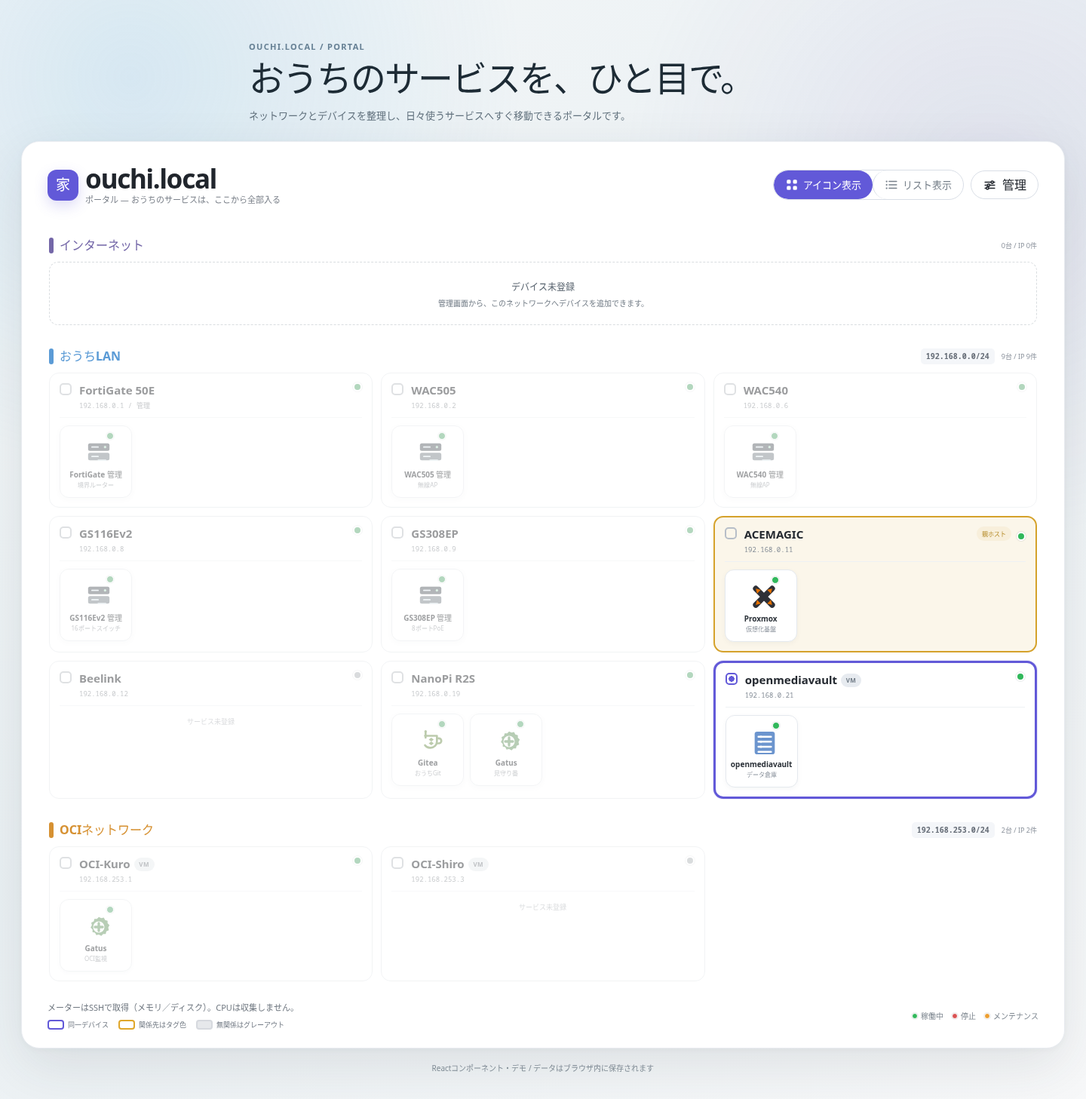
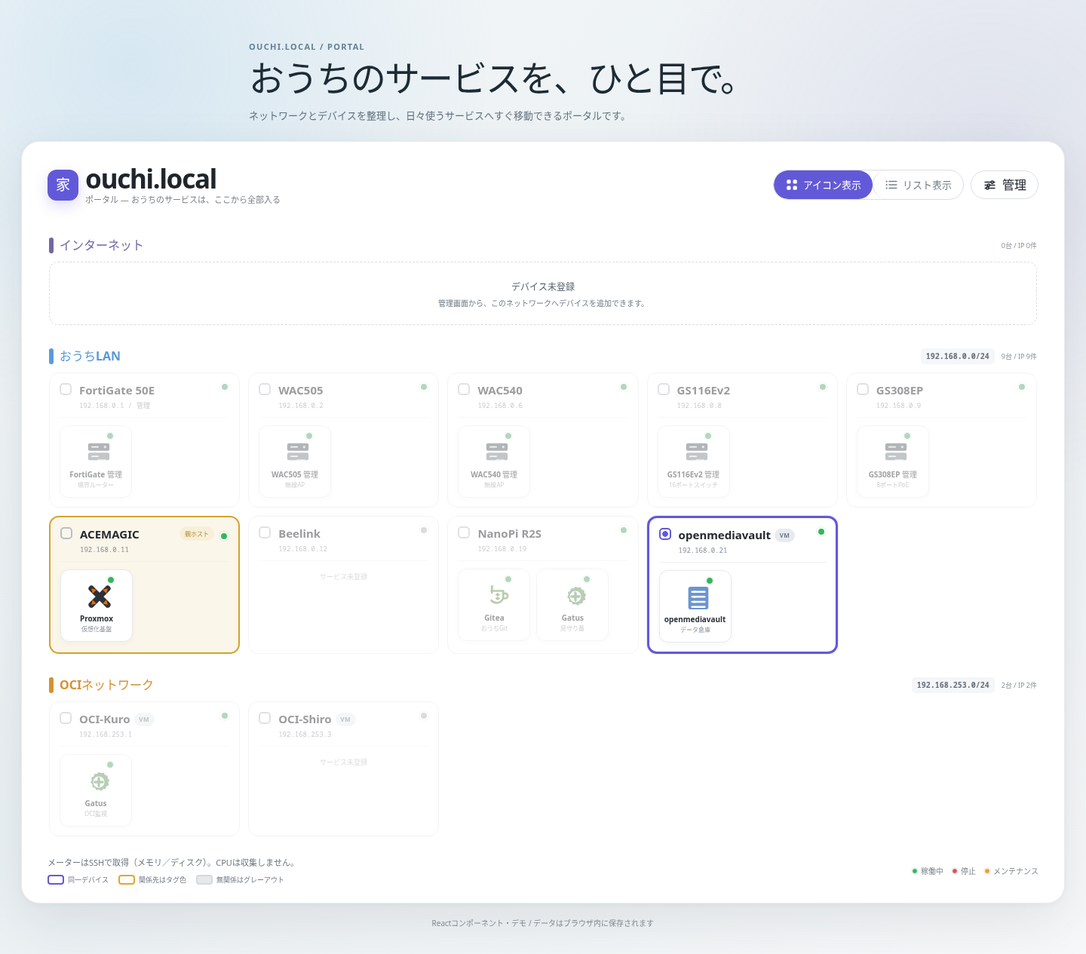
デバイスグリッドの表示密度を改善

diff --git a/成果物/demo/assets/index-16_mAM39.css b/成果物/demo/assets/index-16_mAM39.css
@@ -1,0 +1,1 @@
+.ouchi-portal{--ouchi-ink: #20252c;--ouchi-muted: #727983;--ouchi-subtle: #99a1aa;--ouchi-line: #dfe5ea;--ouchi-canvas: #f6f8fa;--ouchi-white: #ffffff;--ouchi-blue: #5b9bd6;--ouchi-green: #4ba755;--ouchi-orange: #d69132;--ouchi-violet: #7467a8;--ouchi-slate: #667483;--ouchi-danger: #d54d4d;--ouchi-up: #31b85b;--ouchi-down: #d95353;--ouchi-maintenance: #ec9e31;--ouchi-radius-xl: 24px;--ouchi-radius-lg: 18px;--ouchi-radius-md: 13px;position:relative;box-sizing:border-box;width:100%;max-width:1040px;margin:0 auto;padding:27px 27px 22px;overflow:hidden;color:var(--ouchi-ink);background:var(--ouchi-white);border:1px solid #e2e7ec;border-radius:var(--ouchi-radius-xl);box-shadow:0 24px 60px #1f303e1f,0 2px 7px #1f303e0a;font-family:Avenir Next,Hiragino Kaku Gothic ProN,Yu Gothic,Meiryo,sans-serif;line-height:1.45}.ouchi-portal *,.ouchi-portal *:before,.ouchi-portal *:after,.ouchi-overlay *,.ouchi-overlay *:before,.ouchi-overlay *:after,.ouchi-dialog-backdrop *,.ouchi-dialog-backdrop *:before,.ouchi-dialog-backdrop *:after{box-sizing:border-box}.ouchi-portal button,.ouchi-portal input,.ouchi-portal select,.ouchi-overlay button,.ouchi-overlay input,.ouchi-overlay select,.ouchi-dialog-backdrop button,.ouchi-dialog-backdrop input,.ouchi-dialog-backdrop select{font:inherit}.ouchi-portal button,.ouchi-overlay button,.ouchi-dialog-backdrop button{color:inherit}.ouchi-portal :focus-visible,.ouchi-overlay :focus-visible,.ouchi-dialog-backdrop :focus-visible{outline:3px solid rgba(80,148,215,.34);outline-offset:2px}.ouchi-portal-header{display:flex;align-items:center;justify-content:space-between;gap:24px;margin-bottom:18px}.ouchi-title-block{min-width:0}.ouchi-eyebrow{margin:0 0 3px;color:#8a939d;font-size:10px;font-weight:800;letter-spacing:.15em}.ouchi-title-block h2{margin:0;font-size:clamp(25px,3vw,31px);font-weight:800;letter-spacing:-.035em;line-height:1.1}.ouchi-summary{margin:5px 0 0;color:var(--ouchi-muted);font-size:12px}.ouchi-header-actions{display:flex;flex-wrap:wrap;align-items:center;justify-content:flex-end;gap:9px}.ouchi-segmented{display:flex;gap:0;padding:0;overflow:hidden;border:1px solid #d6dde4;border-radius:11px;background:#f8fafb}.ouchi-segmented button{display:inline-flex;min-height:42px;align-items:center;gap:6px;padding:0 15px;color:#77808a;background:transparent;border:0;cursor:pointer;font-size:13px;font-weight:700;transition:color .16s ease,background .16s ease}.ouchi-segmented button+button{border-left:1px solid #d6dde4}.ouchi-segmented button.is-active{color:#2e3a45;background:#cfd7e1}.ouchi-manage-button,.ouchi-primary-button,.ouchi-secondary-button,.ouchi-danger-button{display:inline-flex;min-height:42px;align-items:center;justify-content:center;gap:7px;padding:0 15px;border-radius:11px;cursor:pointer;font-size:13px;font-weight:750;transition:transform .14s ease,box-shadow .14s ease,background .14s ease}.ouchi-manage-button{color:#3e4b57;background:#f8fafb;border:1px solid #d9e0e6}.ouchi-manage-button:hover{background:#eef3f6}.ouchi-primary-button{color:#fff;background:#2f5067;border:1px solid #2f5067;box-shadow:0 5px 14px #2f506733}.ouchi-primary-button:hover:not(:disabled){background:#253f51;transform:translateY(-1px)}.ouchi-primary-button:disabled{opacity:.42;cursor:not-allowed;box-shadow:none}.ouchi-primary-button--compact{min-height:36px;padding:0 12px;border-radius:9px;font-size:12px}.ouchi-secondary-button{color:#4d5964;background:#fff;border:1px solid #d7dee5}.ouchi-danger-button{color:#fff;background:var(--ouchi-danger);border:1px solid var(--ouchi-danger)}.ouchi-canvas{min-height:430px;padding:18px;background-color:var(--ouchi-canvas);background-image:radial-gradient(#d2d9df 1.05px,transparent 1.05px);background-size:22px 22px;border:1px solid #dfe5ea;border-radius:var(--ouchi-radius-lg)}.ouchi-network-stack,.ouchi-list-stack{display:flex;flex-direction:column;gap:16px}.ouchi-accent-scope--blue{--network-color: var(--ouchi-blue);--network-bg: rgba(91, 155, 214, .075);--network-line: rgba(91, 155, 214, .53)}.ouchi-accent-scope--green{--network-color: var(--ouchi-green);--network-bg: rgba(75, 167, 85, .07);--network-line: rgba(75, 167, 85, .47)}.ouchi-accent-scope--orange{--network-color: var(--ouchi-orange);--network-bg: rgba(214, 145, 50, .075);--network-line: rgba(214, 145, 50, .48)}.ouchi-accent-scope--violet{--network-color: var(--ouchi-violet);--network-bg: rgba(116, 103, 168, .075);--network-line: rgba(116, 103, 168, .48)}.ouchi-accent-scope--slate{--network-color: var(--ouchi-slate);--network-bg: rgba(102, 116, 131, .075);--network-line: rgba(102, 116, 131, .48)}.ouchi-network-card{position:relative;padding:20px 17px 17px;background:var(--network-bg);border:1.5px dashed var(--network-line);border-radius:19px}.ouchi-network-header{display:flex;align-items:center;justify-content:space-between;gap:12px;margin-bottom:16px}.ouchi-network-label{display:inline-flex;min-width:0;align-items:center;gap:8px;padding:4px 11px 4px 4px;color:#fff;background:var(--network-color);border-radius:999px;box-shadow:0 2px 7px color-mix(in srgb,var(--network-color) 25%,transparent);font-size:13px;font-weight:800}.ouchi-network-label>span:last-child{overflow:hidden;text-overflow:ellipsis;white-space:nowrap}.ouchi-network-glyph{display:inline-grid;width:25px;height:25px;flex:0 0 25px;place-items:center;color:#fff;background:#fff3;border-radius:999px;font-size:12px;font-weight:800}.ouchi-network-header code{max-width:48%;padding:4px 8px;overflow:hidden;color:color-mix(in srgb,var(--network-color) 74%,#1e2730);background:#ffffff9e;border:1px solid rgba(255,255,255,.8);border-radius:6px;font-size:10px;font-weight:700;text-overflow:ellipsis;white-space:nowrap}.ouchi-node-grid{display:grid;grid-template-columns:repeat(auto-fit,minmax(205px,1fr));gap:13px}.ouchi-node-card{min-width:0;padding:13px 12px 15px;background:#ffffffe8;border:1px solid rgba(213,220,226,.96);border-radius:14px;box-shadow:0 3px 9px #3646520d}.ouchi-device-card--vm{background:#f4f8faf5;border-color:#d5e0e7}.ouchi-device-title{display:flex;min-width:0;align-items:center;gap:6px}.ouchi-device-title h3{max-width:140px}.ouchi-node-header{display:flex;align-items:flex-start;justify-content:space-between;gap:8px;padding:0 2px 10px;border-bottom:1px solid #eef1f4}.ouchi-node-header h3,.ouchi-vm-header h4{max-width:165px;margin:0;overflow:hidden;font-size:13px;font-weight:800;text-overflow:ellipsis;white-space:nowrap}.ouchi-node-header p,.ouchi-vm-header p{margin:2px 0 0;color:var(--ouchi-muted);font-family:ui-monospace,SFMono-Regular,Menlo,monospace;font-size:10px}.ouchi-status-wrap{display:inline-flex;align-items:center}.ouchi-status-dot{display:inline-block;width:10px;height:10px;flex:0 0 10px;border:2px solid #fff;border-radius:999px;box-shadow:0 0 0 1px #1f2a3214}.ouchi-status--up{background:var(--ouchi-up)}.ouchi-status--down{background:var(--ouchi-down)}.ouchi-status--maintenance{background:var(--ouchi-maintenance)}.ouchi-status--unknown{background:#aab2ba}.ouchi-node-header .ouchi-status-dot{width:12px;height:12px;flex-basis:12px}.ouchi-vm-stack{display:flex;flex-direction:column;gap:8px;margin-top:12px;padding-top:11px;border-top:1px dashed #dce3e9}.ouchi-vm-card{min-width:0;padding:10px 9px 12px;background:#f2f6f9eb;border:1px solid #dce5eb;border-radius:14px;box-shadow:0 3px 9px #3646520a}.ouchi-vm-header{display:flex;align-items:center;gap:8px;padding:0 2px 8px}.ouchi-vm-header>div{min-width:0;flex:1}.ouchi-vm-badge{display:inline-grid;min-width:28px;height:22px;flex:0 0 auto;place-items:center;padding:0 5px;color:#fff;background:#667d8c;border-radius:6px;font-size:8px;font-weight:850;letter-spacing:.05em}.ouchi-service-grid--vm{padding-top:8px}.ouchi-service-grid{display:grid;grid-template-columns:repeat(auto-fit,minmax(76px,1fr));gap:12px 8px;padding-top:14px}.ouchi-service-tile{display:flex;min-width:0;align-items:center;flex-direction:column;color:inherit;text-decoration:none}.ouchi-service-icon-wrap{position:relative;display:grid;width:70px;height:70px;place-items:center;background:#fff;border:1px solid #e3e8ed;border-radius:14px;box-shadow:0 6px 13px #23313c1a,inset 0 1px #fffc;transition:transform .16s ease,box-shadow .16s ease}.ouchi-service-tile:hover .ouchi-service-icon-wrap{transform:translateY(-3px);box-shadow:0 10px 20px #23313c24}.ouchi-service-mark{display:block;padding:7px}.ouchi-service-mark svg{display:block;width:100%;height:100%}.ouchi-service-mark--gitea{padding:9px}.ouchi-service-status{position:absolute;top:-4px;right:-4px;width:14px;height:14px;border:2px solid #fff;border-radius:999px;box-shadow:0 0 0 1px #1f2a3212}.ouchi-service-tile>strong{max-width:100%;margin-top:7px;overflow:hidden;color:#252b31;font-size:12px;font-weight:800;text-overflow:ellipsis;white-space:nowrap}.ouchi-service-tile>small{max-width:100%;overflow:hidden;color:#7e8790;font-size:10px;text-overflow:ellipsis;white-space:nowrap}.ouchi-node-empty{margin:15px 0 2px;color:var(--ouchi-muted);font-size:11px;text-align:center}.ouchi-empty-network{padding:20px;color:#727c86;background:#ffffff8c;border:1px dashed rgba(117,129,141,.27);border-radius:12px;text-align:center}.ouchi-empty-network strong{color:#5a6570;font-size:12px}.ouchi-empty-network p{margin:4px 0 0;font-size:10px}.ouchi-portal-footer{display:flex;align-items:flex-end;justify-content:space-between;gap:18px;margin-top:16px;color:#707881;font-size:11px}.ouchi-portal-footer>p{max-width:660px;margin:0}.ouchi-status-legend{display:flex;flex:0 0 auto;gap:11px;color:#7e8790;font-size:10px}.ouchi-status-legend>span{display:inline-flex;align-items:center;gap:4px}.ouchi-status-legend .ouchi-status-dot{width:8px;height:8px;flex-basis:8px;border-width:1px}.ouchi-visually-hidden{position:absolute!important;width:1px!important;height:1px!important;padding:0!important;overflow:hidden!important;clip:rect(0,0,0,0)!important;white-space:nowrap!important;border:0!important}.ouchi-list-network{overflow:hidden;background:#ffffffe6;border:1px solid #dce3e8;border-left:5px solid var(--network-color);border-radius:14px}.ouchi-list-network-header{display:flex;align-items:center;justify-content:space-between;gap:16px;padding:13px 15px;background:var(--network-bg);border-bottom:1px solid #e6ebef}.ouchi-list-network-header .ouchi-network-label{color:#fff}.ouchi-list-network-header p{margin:5px 0 0;color:var(--ouchi-muted);font-family:ui-monospace,SFMono-Regular,Menlo,monospace;font-size:10px}.ouchi-list-count{color:#7d8790;font-size:10px}.ouchi-list-node-list{display:flex;flex-direction:column}.ouchi-list-node{padding:13px 15px;cursor:pointer}.ouchi-list-node-summary,.ouchi-list-vm{display:grid;grid-template-columns:minmax(180px,.35fr) minmax(0,1fr);gap:16px}.ouchi-list-vm{align-items:center;margin-top:9px;padding:9px 10px;background:#f5f8fa;border:1px solid #e3e9ed;border-radius:9px}.ouchi-list-vm-meta{display:flex;min-width:0;align-items:center;gap:7px}.ouchi-list-vm-meta strong{overflow:hidden;font-size:11px;text-overflow:ellipsis;white-space:nowrap}.ouchi-list-vm-meta code{color:#7d8790;font-size:9px}.ouchi-list-node+.ouchi-list-node{border-top:1px solid #eef1f3}.ouchi-list-node--vm{background:#f7f9fa}.ouchi-list-node--vm .ouchi-list-node-meta{flex-wrap:wrap}.ouchi-list-node-meta{display:flex;min-width:0;align-items:center;gap:7px}.ouchi-list-node-meta strong{overflow:hidden;font-size:12px;text-overflow:ellipsis;white-space:nowrap}.ouchi-list-node-meta code{color:#7d8790;font-size:9px}.ouchi-list-services{display:flex;min-width:0;flex-wrap:wrap;align-items:center;gap:7px}.ouchi-list-service{display:inline-flex;min-width:0;max-width:100%;align-items:center;gap:5px;padding:5px 8px;color:#46515c;background:#f8fafb;border:1px solid #e1e7ec;border-radius:7px;text-decoration:none;font-size:10px}.ouchi-list-service:hover{background:#edf3f6}.ouchi-list-service>span:nth-child(2){overflow:hidden;font-weight:750;text-overflow:ellipsis;white-space:nowrap}.ouchi-list-service small{color:#929ba3}.ouchi-list-service .ouchi-status-dot{width:7px;height:7px;flex-basis:7px;border-width:1px}.ouchi-list-empty,.ouchi-list-service-empty{color:#929aa2;font-size:10px}.ouchi-list-empty{margin:0;padding:13px 15px}.ouchi-global-empty{display:grid;min-height:390px;place-content:center;justify-items:center;color:#77808a;text-align:center}.ouchi-global-empty strong{color:#46525d;font-size:17px}.ouchi-global-empty p{margin:5px 0 18px;font-size:12px}.ouchi-overlay,.ouchi-dialog-backdrop{position:fixed;z-index:1000;inset:0;background:#19232b5c;-webkit-backdrop-filter:blur(2px);backdrop-filter:blur(2px);animation:ouchi-fade-in .15s ease both}.ouchi-manage-drawer{position:absolute;top:0;right:0;display:flex;width:min(520px,100%);height:100%;flex-direction:column;overflow:hidden;color:#25303a;background:#fbfcfd;box-shadow:-18px 0 50px #151f272e;animation:ouchi-slide-in .21s cubic-bezier(.22,.8,.24,1) both;font-family:Avenir Next,Hiragino Kaku Gothic ProN,Yu Gothic,Meiryo,sans-serif}.ouchi-drawer-header,.ouchi-dialog-header{display:flex;align-items:center;justify-content:space-between;gap:16px;padding:22px 22px 16px}.ouchi-drawer-header h3,.ouchi-dialog-header h3{margin:0;font-size:21px;letter-spacing:-.025em}.ouchi-icon-button{display:inline-grid;width:38px;height:38px;flex:0 0 38px;place-items:center;padding:0;color:#66727d;background:transparent;border:1px solid transparent;border-radius:10px;cursor:pointer}.ouchi-icon-button:hover{color:#2f3c47;background:#edf1f4;border-color:#e1e6ea}.ouchi-icon-button--small{width:31px;height:31px;flex-basis:31px;border-radius:8px}.ouchi-icon-button--danger:hover{color:#b43f3f;background:#fff0f0;border-color:#f4d2d2}.ouchi-drawer-notice{margin:0 22px 12px;padding:10px 12px;color:#6b5a2a;background:#fff9e8;border:1px solid #efe0ad;border-radius:9px;font-size:11px}.ouchi-drawer-notice--error{color:#8f4141;background:#fff2f2;border-color:#f0cccc}.ouchi-drawer-tabs{display:flex;padding:0 22px;border-bottom:1px solid #e4e9ed}.ouchi-drawer-tabs button{position:relative;display:inline-flex;flex:1;align-items:center;justify-content:center;gap:6px;padding:12px 4px;color:#7a838c;background:transparent;border:0;cursor:pointer;font-size:12px;font-weight:700}.ouchi-drawer-tabs button:after{position:absolute;right:14px;bottom:-1px;left:14px;height:2px;background:transparent;border-radius:2px 2px 0 0;content:""}.ouchi-drawer-tabs button.is-active{color:#2f4e64}.ouchi-drawer-tabs button.is-active:after{background:#43728f}.ouchi-drawer-tabs button span{display:inline-grid;min-width:18px;height:18px;place-items:center;padding:0 4px;background:#e8edf1;border-radius:999px;font-size:9px}.ouchi-drawer-body{min-height:0;flex:1;padding:17px 22px 24px;overflow-y:auto}.ouchi-drawer-toolbar{display:flex;align-items:center;justify-content:space-between;gap:12px;margin-bottom:12px}.ouchi-drawer-toolbar p{margin:0;color:#77818b;font-size:11px}.ouchi-inline-hint{margin:-2px 0 12px;color:#9a6b30;font-size:10px}.ouchi-manage-list{display:flex;flex-direction:column;gap:8px}.ouchi-manage-row{display:flex;min-width:0;align-items:center;gap:10px;padding:11px;background:#fff;border:1px solid #e2e8ec;border-radius:11px}.ouchi-manage-accent{width:5px;height:35px;flex:0 0 5px;border-radius:999px}.ouchi-accent--blue{background:var(--ouchi-blue)}.ouchi-accent--green{background:var(--ouchi-green)}.ouchi-accent--orange{background:var(--ouchi-orange)}.ouchi-accent--violet{background:var(--ouchi-violet)}.ouchi-accent--slate{background:var(--ouchi-slate)}.ouchi-manage-row-main{min-width:0;flex:1}.ouchi-manage-row-main strong{display:block;overflow:hidden;font-size:12px;text-overflow:ellipsis;white-space:nowrap}.ouchi-manage-row-main p{margin:2px 0 0;overflow:hidden;color:#89929b;font-size:9px;text-overflow:ellipsis;white-space:nowrap}.ouchi-manage-chip,.ouchi-status-label{flex:0 0 auto;padding:3px 6px;border-radius:999px;font-size:8px;font-weight:700}.ouchi-manage-chip{color:#69747e;background:#f0f3f5}.ouchi-status-label--up{color:#268546;background:#e8f8ed}.ouchi-status-label--down{color:#b43f3f;background:#fff0f0}.ouchi-status-label--maintenance{color:#976719;background:#fff6df}.ouchi-manage-device-mark{display:grid;width:31px;height:31px;flex:0 0 31px;place-items:center;color:#eaf1f5;background:#526c7e;border-radius:9px;font-size:11px;font-weight:800}.ouchi-manage-vm-mark{display:grid;width:31px;height:31px;flex:0 0 31px;place-items:center;color:#eff4f7;background:#6f8492;border-radius:8px;font-size:8px;font-weight:850;letter-spacing:.04em}.ouchi-manage-status{width:10px;height:10px;flex:0 0 10px;border-radius:999px}.ouchi-row-actions{display:flex;flex:0 0 auto;gap:2px}.ouchi-drawer-footer{display:flex;align-items:center;justify-content:space-between;gap:14px;padding:13px 22px;background:#f6f8fa;border-top:1px solid #e5e9ed}.ouchi-drawer-footer>span{color:#939ba3;font-size:9px}.ouchi-text-button{display:inline-flex;align-items:center;gap:5px;padding:0;color:#65717c;background:transparent;border:0;cursor:pointer;font-size:10px}.ouchi-manage-empty{display:grid;min-height:140px;place-content:center;color:#98a0a8;text-align:center}.ouchi-manage-empty strong{color:#6d7780;font-size:12px}.ouchi-manage-empty p{margin:3px 0 0;font-size:10px}.ouchi-dialog-backdrop{z-index:1100;display:grid;place-items:center;padding:18px}.ouchi-entity-dialog{width:min(480px,100%);max-height:calc(100vh - 36px);overflow-y:auto;color:#25303a;background:#fff;border-radius:18px;box-shadow:0 28px 70px #151f273d;animation:ouchi-pop-in .17s ease both;font-family:Avenir Next,Hiragino Kaku Gothic ProN,Yu Gothic,Meiryo,sans-serif}.ouchi-entity-form{display:flex;flex-direction:column;gap:14px;padding:3px 22px 22px}.ouchi-field{display:flex;flex-direction:column;gap:5px}.ouchi-field>span{color:#4b5660;font-size:11px;font-weight:750}.ouchi-field input,.ouchi-field select{width:100%;min-height:40px;padding:8px 10px;color:#28333d;background:#fff;border:1px solid #d7dfe5;border-radius:9px;font-size:12px}.ouchi-field input::placeholder{color:#b0b7bd}.ouchi-field input[aria-invalid=true],.ouchi-field select[aria-invalid=true]{border-color:#d95e5e;box-shadow:0 0 0 3px #d95e5e1a}.ouchi-field small{color:#8a949d;font-size:9px}.ouchi-field-error{color:#bc4141;font-size:9px}.ouchi-checkbox-field{display:flex;align-items:flex-start;gap:9px;padding:11px;background:#f6f9fa;border:1px solid #dfe7ec;border-radius:10px;cursor:pointer}.ouchi-checkbox-field input{width:17px;height:17px;flex:0 0 17px;margin:2px 0 0;accent-color:#526f82}.ouchi-checkbox-field span{display:flex;min-width:0;flex-direction:column;gap:2px}.ouchi-checkbox-field strong{color:#34434e;font-size:11px}.ouchi-checkbox-field small{color:#7c8790;font-size:9px}.ouchi-form-grid{display:grid;grid-template-columns:1fr 1fr;gap:12px}.ouchi-form-note{margin:-2px 0 0;padding:9px 10px;color:#68747e;background:#f5f8fa;border-radius:8px;font-size:9px}.ouchi-form-actions{display:flex;justify-content:flex-end;gap:8px;margin-top:4px}.ouchi-dialog-backdrop--confirm{z-index:1200}.ouchi-confirm-dialog{width:min(390px,100%);padding:24px;color:#25303a;background:#fff;border-radius:17px;box-shadow:0 28px 70px #151f2742;animation:ouchi-pop-in .17s ease both;font-family:Avenir Next,Hiragino Kaku Gothic ProN,Yu Gothic,Meiryo,sans-serif}.ouchi-confirm-dialog h3{margin:0;font-size:18px}.ouchi-confirm-dialog p{margin:9px 0 20px;color:#727c85;font-size:11px}@keyframes ouchi-fade-in{0%{opacity:0}}@keyframes ouchi-slide-in{0%{transform:translate(26px);opacity:.7}}@keyframes ouchi-pop-in{0%{transform:translateY(8px) scale(.985);opacity:0}}@media(max-width:760px){.ouchi-portal{padding:20px 15px 17px;border-radius:19px}.ouchi-portal-header{align-items:flex-start;flex-direction:column;gap:13px}.ouchi-header-actions{width:100%;justify-content:space-between}.ouchi-segmented button{padding:0 12px}.ouchi-canvas{min-height:410px;padding:12px}.ouchi-network-card{padding:17px 13px 14px}.ouchi-node-grid{grid-template-columns:1fr}.ouchi-service-grid{grid-template-columns:repeat(auto-fit,minmax(72px,1fr))}.ouchi-portal-footer{align-items:flex-start;flex-direction:column;gap:10px}.ouchi-list-node-summary,.ouchi-list-vm{grid-template-columns:1fr;gap:9px}.ouchi-manage-drawer{width:100%}.ouchi-drawer-header,.ouchi-dialog-header{padding:18px 17px 13px}.ouchi-drawer-tabs{padding:0 17px}.ouchi-drawer-body{padding:14px 17px 20px}.ouchi-drawer-footer{padding:12px 17px}.ouchi-manage-chip{display:none}.ouchi-entity-form{padding:2px 17px 19px}}@media(max-width:430px){.ouchi-header-actions{align-items:stretch;flex-direction:column}.ouchi-segmented,.ouchi-segmented button,.ouchi-manage-button{width:100%}.ouchi-segmented button{justify-content:center}.ouchi-network-header{align-items:flex-start}.ouchi-network-header code{max-width:43%}.ouchi-status-legend{flex-wrap:wrap}.ouchi-form-grid{grid-template-columns:1fr}.ouchi-drawer-tabs button{gap:3px;font-size:10px}.ouchi-drawer-toolbar{align-items:flex-start;flex-direction:column}}@media(prefers-reduced-motion:reduce){.ouchi-portal *,.ouchi-overlay *,.ouchi-dialog-backdrop *{scroll-behavior:auto!important;transition:none!important;animation:none!important}}.ouchi-portal{max-width:1500px;padding:30px 34px 24px;border-color:#e8ebf0;box-shadow:0 24px 70px #25303d1a,0 2px 8px #25303d09}.ouchi-title-block{display:flex;align-items:center;gap:9px}.ouchi-home-mark{display:inline-grid;width:41px;height:41px;flex:0 0 41px;place-items:center;color:#fff;background:#6259d8;border-radius:12px;font-size:19px;font-weight:800;box-shadow:0 7px 18px #6259d838}.ouchi-title-block h2{font-size:clamp(27px,2.8vw,35px)}.ouchi-summary{margin-top:1px;color:#7b818a;font-size:11px}.ouchi-segmented{border-color:#d9dee6;border-radius:999px;background:#fff}.ouchi-segmented button{min-height:38px;border-radius:999px}.ouchi-segmented button.is-active{color:#fff;background:#6259d8}.ouchi-manage-button{min-height:38px;background:#fff;border-color:#d9dee6;border-radius:999px}.ouchi-canvas{min-height:540px;padding:16px 2px 12px;background:transparent;border:0;border-radius:0}.ouchi-network-stack{gap:11px}.ouchi-network-card{padding:7px 0 12px;background:transparent;border:0;border-radius:0}.ouchi-network-header{margin-bottom:10px}.ouchi-network-label{padding:0;color:var(--network-color);background:transparent;box-shadow:none;font-size:16px}.ouchi-list-network-header .ouchi-network-label{color:var(--network-color);background:transparent;box-shadow:none}.ouchi-network-glyph{width:6px;height:21px;flex-basis:6px;color:transparent;background:var(--network-color);border-radius:999px;font-size:0}.ouchi-network-meta{display:inline-flex;align-items:center;gap:9px}.ouchi-network-meta code{max-width:none;padding:3px 7px;color:#666d77;background:#f4f6f9;border:0;border-radius:5px}.ouchi-network-meta small{color:#8b929c;font-size:9px}.ouchi-node-grid{grid-template-columns:repeat(auto-fill,minmax(226px,1fr));gap:11px}.ouchi-node-card{position:relative;min-width:226px;min-height:174px;padding:12px 13px;overflow:hidden;background:#ffffffc7;border:1.5px solid #e0e5eb;border-radius:13px;box-shadow:none;cursor:pointer;transition:border-color .16s ease,background .16s ease,opacity .16s ease,filter .16s ease,transform .16s ease}.ouchi-node-card:hover{transform:translateY(-1px);border-color:color-mix(in srgb,var(--network-color) 36%,#dfe4ea)}.ouchi-device-card--selected{background:#fff;border:3px solid #6259d8;box-shadow:0 0 0 1px #6259d81f}.ouchi-device-card--related{background:color-mix(in srgb,var(--ouchi-relation-color) 10%,#fff);border:2px solid var(--ouchi-relation-color)}.ouchi-device-card--muted{opacity:.46;filter:grayscale(.42)}.ouchi-device-card--muted:hover{opacity:.7}.ouchi-node-header{min-height:47px;align-items:flex-start;padding:0 0 9px;border-bottom-color:#eef1f4}.ouchi-node-select-button{display:grid;min-width:0;flex:1;grid-template-columns:19px minmax(0,1fr);gap:2px 7px;padding:0;color:inherit;background:transparent;border:0;cursor:pointer;text-align:left}.ouchi-node-radio{width:16px;height:16px;margin-top:1px;border:2px solid #b7bec8;border-radius:5px}.ouchi-device-card--selected .ouchi-node-radio{background:radial-gradient(circle,#6259d8 0 42%,transparent 46%);border-color:#6259d8}.ouchi-device-title{display:flex;min-width:0;align-items:center;gap:5px;color:#252a31;font-size:15px;font-weight:850}.ouchi-device-title>span:first-child{overflow:hidden;text-overflow:ellipsis;white-space:nowrap}.ouchi-node-address{grid-column:2;overflow:hidden;color:#858d97;font-family:ui-monospace,SFMono-Regular,Menlo,monospace;font-size:9px;text-overflow:ellipsis;white-space:nowrap}.ouchi-node-header-side{display:flex;flex:0 0 auto;align-items:flex-end;gap:7px}.ouchi-vm-badge{height:18px;min-width:27px;padding:0 5px;color:#707b86;background:#e7ebf0;border-radius:999px;font-size:8px}.ouchi-same-device-badge{display:inline-flex;height:18px;flex:0 0 auto;align-items:center;padding:0 6px;color:#656c76;background:#e9edf2;border-radius:999px;font-size:8px;font-weight:750}.ouchi-relation-badges{display:flex;flex-wrap:wrap;justify-content:flex-end;gap:3px}.ouchi-relation-badge{display:inline-flex;min-height:19px;align-items:center;padding:1px 7px;border-radius:999px;font-size:8px;font-weight:800;white-space:nowrap}.ouchi-relation-badge{color:color-mix(in srgb,var(--ouchi-relation-color) 80%,#3a3321);background:color-mix(in srgb,var(--ouchi-relation-color) 17%,#fff)}.ouchi-service-grid{display:grid;grid-template-columns:repeat(2,minmax(0,96px));justify-content:start;gap:8px;padding-top:10px}.ouchi-service-tile{display:grid;width:100%;min-width:0;aspect-ratio:1;grid-template-columns:minmax(0,1fr);justify-items:center;align-content:center;gap:5px;padding:8px 6px;color:inherit;background:#fff;border:1px solid #e5e9ee;border-radius:12px;box-shadow:0 2px 7px #222f3c0b;text-decoration:none}.ouchi-service-tile:hover{border-color:color-mix(in srgb,var(--network-color) 33%,#dfe4ea);box-shadow:0 5px 12px #222f3c14}.ouchi-service-icon-wrap{width:42px;height:42px;border:0;border-radius:8px;box-shadow:none}.ouchi-service-tile:hover .ouchi-service-icon-wrap{transform:none;box-shadow:none}.ouchi-service-mark{padding:5px!important}.ouchi-service-copy{display:flex;width:100%;min-width:0;align-items:center;flex-direction:column;gap:1px;text-align:center}.ouchi-service-copy strong{display:-webkit-box;overflow:hidden;color:#2d333a;font-size:10px;font-weight:800;line-height:1.25;-webkit-box-orient:vertical;-webkit-line-clamp:2}.ouchi-service-copy small{max-width:100%;overflow:hidden;color:#9299a2;font-size:8px;text-overflow:ellipsis;white-space:nowrap}.ouchi-service-status{top:-3px;right:-3px;width:10px;height:10px;border-width:1.5px}.ouchi-node-empty{margin:14px 0 10px;color:#b2b7be;font-size:9px}.ouchi-resource-meters{display:flex;flex-direction:column;gap:6px;margin-top:12px;padding-top:10px;border-top:1px solid #eef1f4}.ouchi-resource-meter{display:grid;grid-template-columns:44px minmax(0,1fr) 31px;align-items:center;gap:6px;color:#737a84;font-size:8px}.ouchi-resource-meter strong{color:#5c636c;font-size:8px;text-align:right}.ouchi-resource-track{display:block;height:8px;overflow:hidden;background:#edf0f3;border-radius:999px}.ouchi-resource-fill{display:block;height:100%;border-radius:inherit}.ouchi-resource-fill--low{background:#20bd61}.ouchi-resource-fill--medium{background:#efa51e}.ouchi-resource-fill--high{background:#df6d36}.ouchi-portal-footer{align-items:center;margin-top:3px}.ouchi-portal-legend{display:flex;flex-direction:column;gap:8px}.ouchi-portal-legend>p{margin:0}.ouchi-relation-legend{display:flex;flex-wrap:wrap;gap:13px;color:#737b85;font-size:9px}.ouchi-relation-legend>span{display:inline-flex;align-items:center;gap:5px}.ouchi-legend-swatch{width:22px;height:13px;border:2px solid;border-radius:4px}.ouchi-legend-swatch--same{border-color:#6259d8}.ouchi-legend-swatch--relation{border-color:#e0a72b}.ouchi-legend-swatch--muted{background:#e6e8eb;border-color:#d6d9de}.ouchi-list-node--selected{background:#f3f1ff;box-shadow:inset 3px 0 #6259d8}.ouchi-list-node--related{background:color-mix(in srgb,var(--ouchi-relation-color, #d5a22b) 7%,#fff);box-shadow:inset 3px 0 var(--ouchi-relation-color, #d5a22b)}.ouchi-list-node--muted{opacity:.5}.ouchi-list-select-button{display:inline-flex;min-width:0;align-items:center;gap:6px;padding:0;color:inherit;background:transparent;border:0;cursor:pointer}.ouchi-list-select-button .ouchi-status-dot{width:9px;height:9px;flex-basis:9px;background:var(--network-color)}.ouchi-list-select-button[aria-pressed=true] .ouchi-status-dot{background:#6259d8;box-shadow:0 0 0 3px #6259d824}.ouchi-list-node-meta small{color:#9299a1;font-size:9px}.ouchi-entity-dialog{width:min(720px,100%)}.ouchi-form-section{display:flex;flex-direction:column;gap:10px;padding:13px;background:#f8fafb;border:1px solid #e2e7ec;border-radius:12px}.ouchi-form-section>header{display:flex;align-items:flex-start;justify-content:space-between;gap:12px}.ouchi-form-section>header>div{display:flex;min-width:0;flex-direction:column;gap:2px}.ouchi-form-section>header strong{color:#34414c;font-size:12px}.ouchi-form-section>header small{color:#858f98;font-size:9px}.ouchi-secondary-button--compact{min-height:32px;padding:0 10px;border-radius:8px;font-size:10px}.ouchi-editor-stack{display:flex;flex-direction:column;gap:8px}.ouchi-editor-row{padding:10px;background:#fff;border:1px solid #e2e7ec;border-radius:10px}.ouchi-editor-row-foot{display:grid;grid-template-columns:minmax(0,1fr) auto;align-items:end;gap:8px;margin-top:8px}.ouchi-relation-row{display:grid;grid-template-columns:1.15fr 1fr 1fr auto;align-items:end;gap:8px;padding:10px;background:#fff;border:1px solid #e2e7ec;border-radius:10px}.ouchi-color-field{display:flex;align-items:flex-end;gap:6px;padding-bottom:1px}.ouchi-color-field label{display:flex;flex-direction:column;gap:5px;color:#4b5660;font-size:11px;font-weight:750}.ouchi-color-field input[type=color]{width:42px;height:40px;padding:3px;background:#fff;border:1px solid #d7dfe5;border-radius:9px}.ouchi-color-field code{padding-bottom:11px;color:#7d858d;font-size:8px}.ouchi-form-error-summary{padding:10px 12px;color:#913e3e;background:#fff0f0;border:1px solid #efcccc;border-radius:9px;font-size:10px}.ouchi-form-error-summary strong{display:block;margin-bottom:4px;font-size:11px}.ouchi-form-error-summary ul{margin:0;padding-left:17px}.ouchi-url-preview{display:grid;grid-template-columns:auto minmax(0,1fr);gap:5px 9px;padding:10px;color:#66717b;background:#f2f6f8;border:1px solid #dfe7ec;border-radius:9px;font-size:9px}.ouchi-url-preview code{overflow:hidden;color:#3e596b;text-overflow:ellipsis;white-space:nowrap}@media(max-width:1120px){.ouchi-node-grid{grid-template-columns:repeat(auto-fill,minmax(226px,1fr))}.ouchi-portal{padding:27px 25px 22px}}@media(max-width:760px){.ouchi-portal{padding:20px 14px 17px}.ouchi-canvas{padding:12px 0 8px}.ouchi-node-grid{grid-template-columns:repeat(auto-fill,minmax(226px,1fr))}.ouchi-network-header{align-items:flex-start}.ouchi-network-meta{align-items:flex-end;flex-direction:column;gap:4px}.ouchi-portal-footer{align-items:flex-start;flex-direction:column}.ouchi-relation-row{grid-template-columns:1fr;align-items:stretch}.ouchi-color-field{align-items:center}.ouchi-color-field code{padding-bottom:0}}@media(max-width:500px){.ouchi-service-grid{grid-template-columns:repeat(2,minmax(0,96px))}.ouchi-form-section>header{flex-direction:column}}:root{color:#1f2932;background:#eef3f6;font-family:Avenir Next,Hiragino Kaku Gothic ProN,Yu Gothic,Meiryo,sans-serif;font-synthesis:none;text-rendering:optimizeLegibility}*{box-sizing:border-box}html{min-width:320px;min-height:100%}body{min-width:320px;min-height:100vh;margin:0;background:radial-gradient(circle at 12% 7%,rgba(115,180,222,.22),transparent 28%),radial-gradient(circle at 91% 16%,rgba(160,142,200,.15),transparent 27%),linear-gradient(145deg,#f4f7f8,#eaf0f3 48%,#f7f8f9)}body:before{position:fixed;z-index:-1;inset:0;pointer-events:none;background-image:linear-gradient(rgba(82,109,126,.035) 1px,transparent 1px);background-size:100% 36px;content:""}.demo-page{width:min(1580px,100%);margin:0 auto;padding:54px 28px 34px}.demo-heading{width:min(780px,100%);margin:0 auto 25px}.demo-brand{margin:0 0 8px;color:#668094;font-size:11px;font-weight:800;letter-spacing:.12em;text-transform:uppercase}.demo-heading h1{margin:0;color:#1d2b35;font-size:clamp(28px,4.4vw,47px);letter-spacing:-.045em;line-height:1.14}.demo-heading h1 span{display:inline-block;white-space:nowrap}.demo-heading>p:last-child{max-width:640px;margin:12px 0 0;color:#63737f;font-size:13px}.demo-note{margin:18px 0 0;color:#85909a;font-size:10px;text-align:center}@media(max-width:640px){.demo-page{padding:30px 12px 24px}.demo-heading{padding:0 8px}}

diff --git a/src/portal/styles.css b/src/portal/styles.css
@@ -1622,12 +1622,13 @@
 }
 
 .ouchi-node-grid {
-  grid-template-columns: repeat(3, minmax(0, 1fr));
+  grid-template-columns: repeat(auto-fill, minmax(226px, 1fr));
   gap: 11px;
 }
 
 .ouchi-node-card {
   position: relative;
+  min-width: 226px;
   min-height: 174px;
   padding: 12px 13px;
   overflow: hidden;
@@ -1792,7 +1793,7 @@
 
 .ouchi-service-grid {
   display: grid;
-  grid-template-columns: repeat(auto-fit, minmax(86px, 96px));
+  grid-template-columns: repeat(2, minmax(0, 96px));
   justify-content: start;
   gap: 8px;
   padding-top: 10px;
@@ -2177,7 +2178,7 @@
 
 @media (max-width: 1120px) {
   .ouchi-node-grid {
-    grid-template-columns: repeat(2, minmax(0, 1fr));
+    grid-template-columns: repeat(auto-fill, minmax(226px, 1fr));
   }
 
   .ouchi-portal {
@@ -2195,7 +2196,7 @@
   }
 
   .ouchi-node-grid {
-    grid-template-columns: 1fr;
+    grid-template-columns: repeat(auto-fill, minmax(226px, 1fr));
   }
 
   .ouchi-network-header {
@@ -2229,7 +2230,7 @@
 
 @media (max-width: 500px) {
   .ouchi-service-grid {
-    grid-template-columns: repeat(auto-fit, minmax(86px, 96px));
+    grid-template-columns: repeat(2, minmax(0, 96px));
   }
 
   .ouchi-form-section > header {

diff --git a/tests/e2e/portal.spec.ts b/tests/e2e/portal.spec.ts
@@ -5,6 +5,7 @@ const viewports = [
   { name: "laptop-1024", width: 1024, height: 900 },
   { name: "tablet-768", width: 768, height: 1000 },
   { name: "mobile-390", width: 390, height: 1100 },
+  { name: "mobile-320", width: 320, height: 1200 },
 ];
 
 for (const viewport of viewports) {
@@ -17,6 +18,9 @@ for (const viewport of viewports) {
     await expect(
       page.getByRole("heading", { name: "ouchi.local" }),
     ).toBeVisible();
+    expect(
+      await page.evaluate(() => document.documentElement.scrollWidth),
+    ).toBeLessThanOrEqual(viewport.width);
     await page.screenshot({
       path: `成果物/screenshots/portal-${viewport.name}.png`,
       fullPage: true,

diff --git a/成果物/demo/index.html b/成果物/demo/index.html
@@ -8,8 +8,8 @@
       content="ouchi.localのネットワーク、ノード、サービスをまとめるポータル"
     />
     <title>ouchi.local ポータル</title>
-    <script type="module" crossorigin src="/assets/index-7GLUObAH.js"></script>
-    <link rel="stylesheet" crossorigin href="/assets/index-CQxuzKJ3.css">
+    <script type="module" crossorigin src="/assets/index-BP-R20Eh.js"></script>
+    <link rel="stylesheet" crossorigin href="/assets/index-16_mAM39.css">
   </head>
   <body>
     <div id="root"></div>

diff --git a/報告書.md b/報告書.md
@@ -28,6 +28,9 @@
 - デバイス欄外のクリックで選択を解除する。
 - ポータル外側のグレー領域クリックでも選択を解除する。
 - デバイス領域クリック、サービス分離、欄外解除の変更一式をGitへコミットする。
+- デバイスカードの最小横幅をサービス2個分に設定する。
+- 右側余白を抑え、画面幅に応じて表示できるデバイス数を増やす。
+- 可変グリッドと320px表示を含む変更一式をGitへコミットする。
 
 ## 現状の概要報告
 
@@ -59,14 +62,14 @@
 - 自由入力タグと色を持つ `relations`、同一デバイス表示、関係表示を別概念として実装済みです。
 - メモリ／ディスクメーター、SSH接続メタデータ、CPU非表示を実装済みです。
 - サービスURLとGatus監視URLをスキーム、IP、ポート、パスから生成できます。
-- 自動テスト32件、Playwright9状態、型チェック、ライブラリ／デモビルドが成功済みです。
+- 自動テスト32件、Playwright10状態、型チェック、ライブラリ／デモビルドが成功済みです。
 - npmパッケージを `0.2.0` へ更新し、デモ、パッケージ、9枚の画面確認画像を成果物へ配置済みです。
 - 開発サーバーを `http://192.168.0.32:5173/` で起動し、HTTP 200応答を確認済みです。
 - Gatusの監視APIから2026-11-20時点の登録ホストと成功状態を取得しました。
 - RAGのIPアドレス命名ルール（commit `4be1dd9`）を確認しました。
 - おうちLAN 9台、OCIネットワーク2台、管理・アプリサービス10件をテストデータへ反映済みです。
 - Gatus登録ホストの管理URL候補へ読み取りアクセスし、主なスキームとポートを確認済みです。
-- 実データ版でも自動テスト32件、型チェック、本番ビルド、Playwright 9状態が成功済みです。
+- 実データ版でも自動テスト32件、型チェック、本番ビルド、Playwright 10状態が成功済みです。
 - サービスタイルを縦配置へ変更し、アイコンの下へサービス名と補足名を表示します。
 - サービスタイルを固定幅グリッドの正方形ボタンへ変更済みです。
 - 同一デバイスを示すバッジは、同一IDのいずれかのノードを選択した場合だけ表示します。
@@ -87,6 +90,12 @@
 - `.ouchi-portal`の外側をpointerdownした場合も選択を解除するよう変更しています。
 - 最新のクリック操作修正、テスト32件、成果物、報告書をコミット対象として確認済みです。
 - デバイス操作改善一式を `main` ブランチへローカルコミット済みです。
+- デバイスカードを最小226pxとし、サービスボタンを常に最大2列で表示します。
+- 320px幅でも横スクロールせず、サービス2個分を維持できることを確認済みです。
+- 固定列数のデバイスグリッドを、226px以上のカードを自動配置する可変グリッドへ変更しました。
+- デスクトップ1440pxで最大5列、タブレット768pxで2列表示となることを確認済みです。
+- 最新のグリッド変更、Playwright 10状態、成果物、報告書をコミット対象として確認済みです。
+- 可変グリッド変更一式を `main` ブランチへローカルコミット済みです。
 
 ## 課題、懸念点、質問事項
 
@@ -143,7 +152,7 @@
 - サービス管理画面での配置先IP、スキーム、ポート、トップパス、監視パス、任意URL編集。
 - Explorer風矩形サービスタイルとレスポンシブ表示調整。
 - 自動テスト32件、型チェック、ライブラリ／デモ本番ビルド。
-- Playwrightによる9状態の表示検証とスクリーンショット生成。
+- Playwrightによる10状態の表示検証とスクリーンショット生成。
 - `ouchi-local-portal@0.2.0` のnpmパッケージ生成と成果物更新。
 - READMEのデータモデル、関係仕様、URL生成、v1からの変更点の更新。
 - 更新後モックの開発サーバー起動とHTTP応答確認。
@@ -170,3 +179,8 @@
 - ポータル外側クリックによる選択解除の回帰テスト。
 - デバイス操作改善一式のGitコミット前確認。
 - デバイス操作改善一式のローカルGitコミット。
+- サービス2個分のデバイスカード最小幅調整。
+- 320px幅での横スクロールなし検証。
+- デバイスカードの自動可変列化による表示密度調整。
+- 可変グリッド変更一式のGitコミット前確認。
+- 可変グリッド変更一式のローカルGitコミット。
